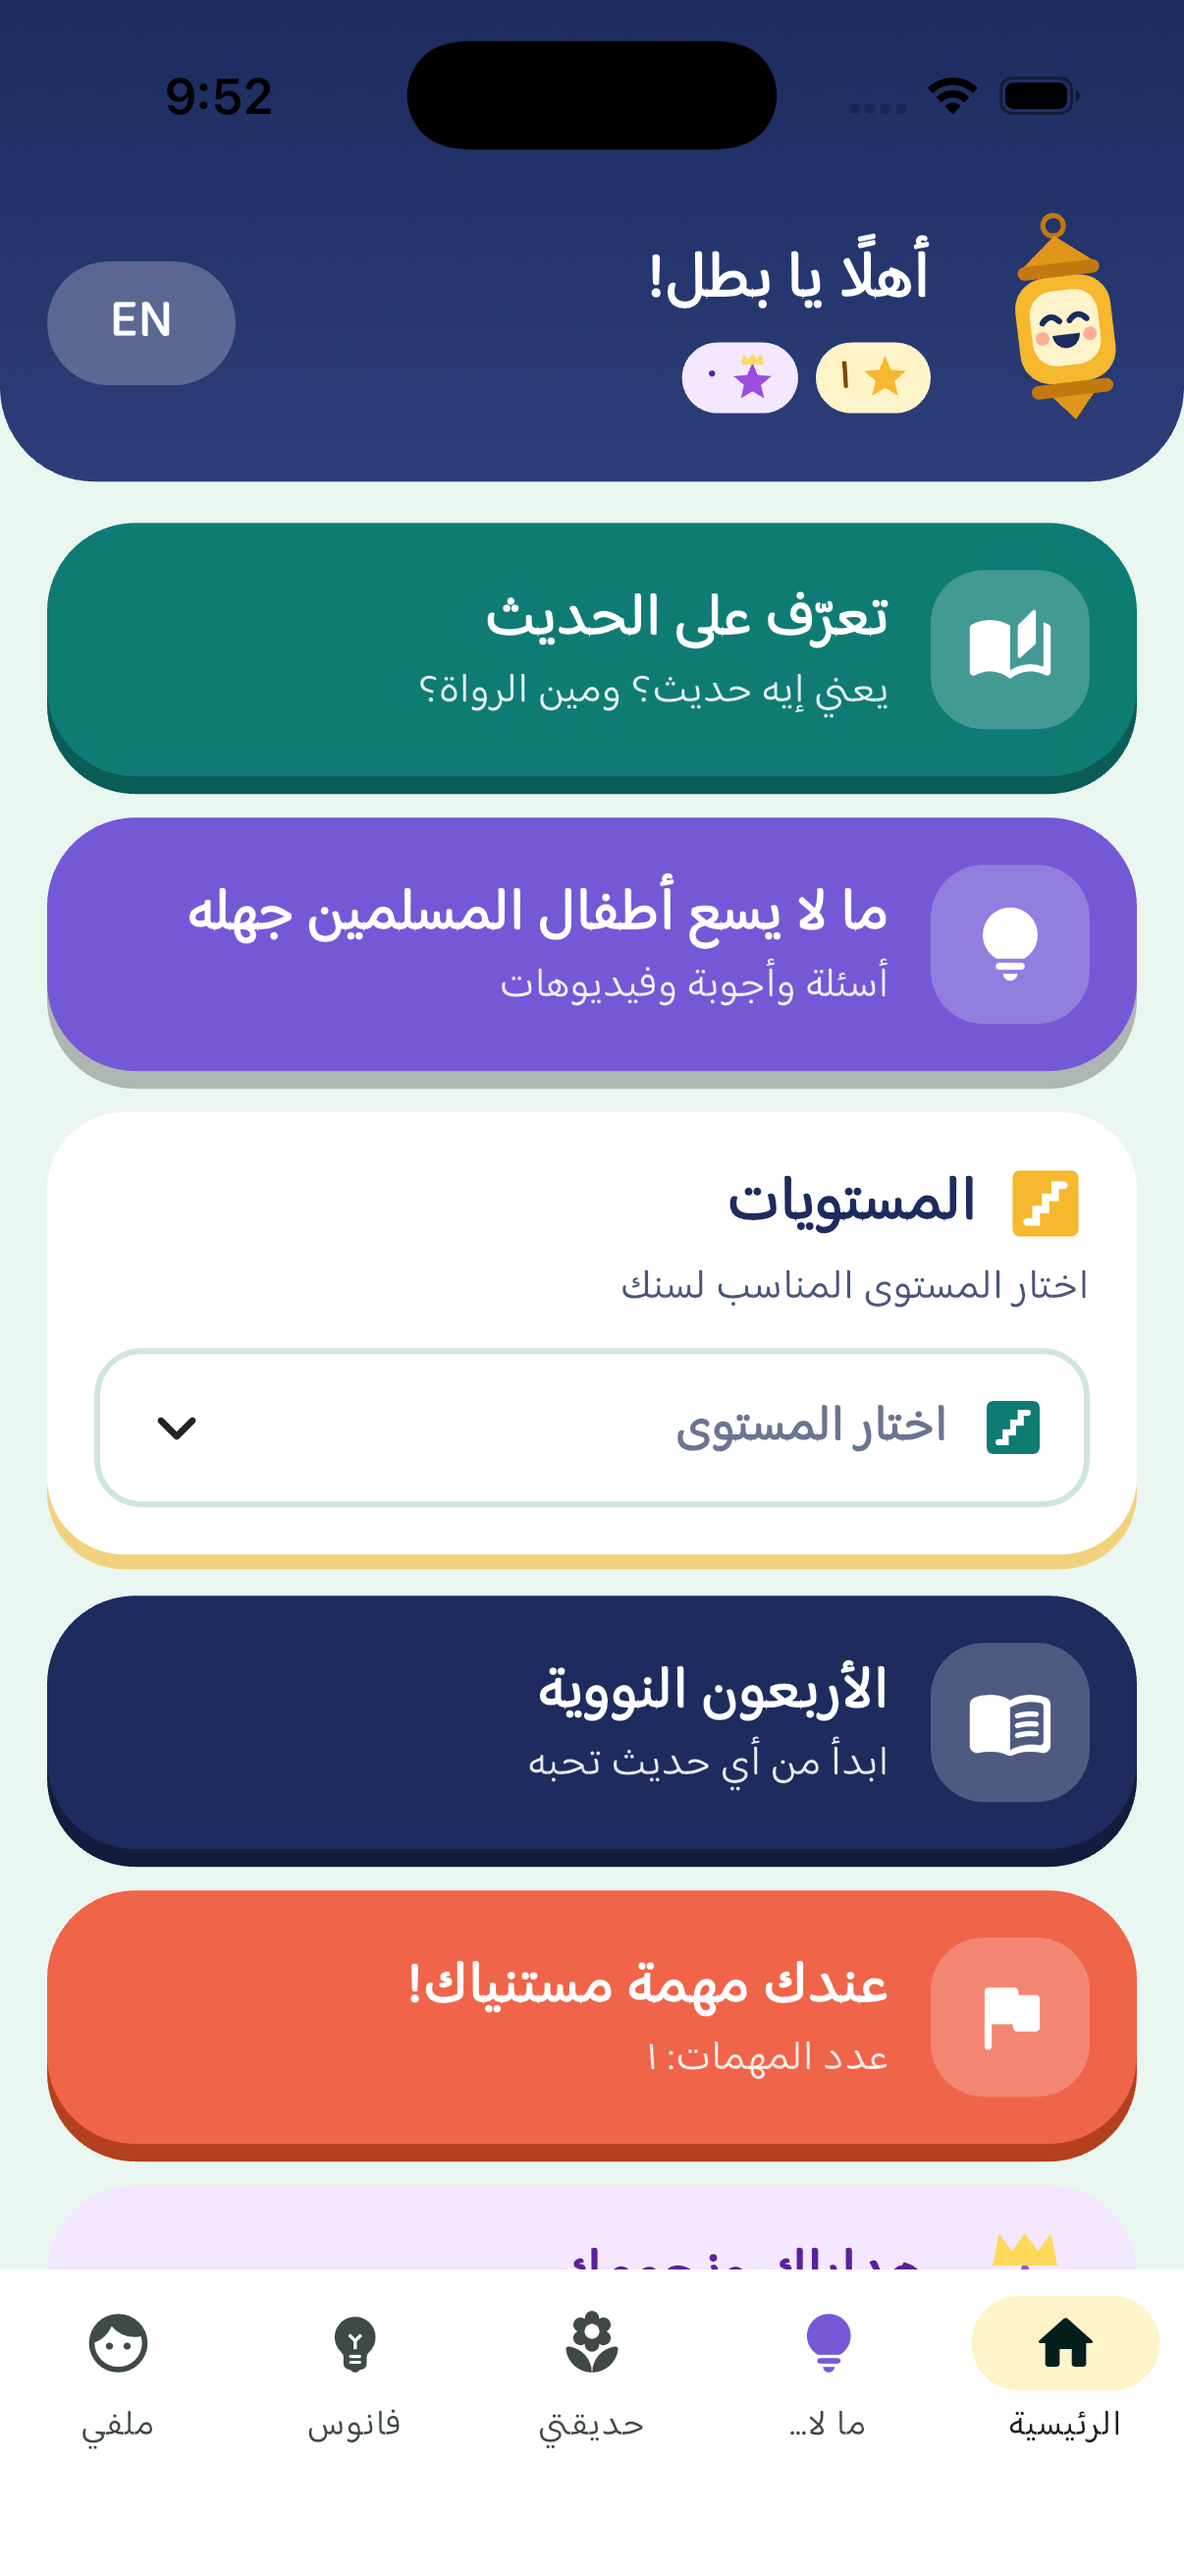
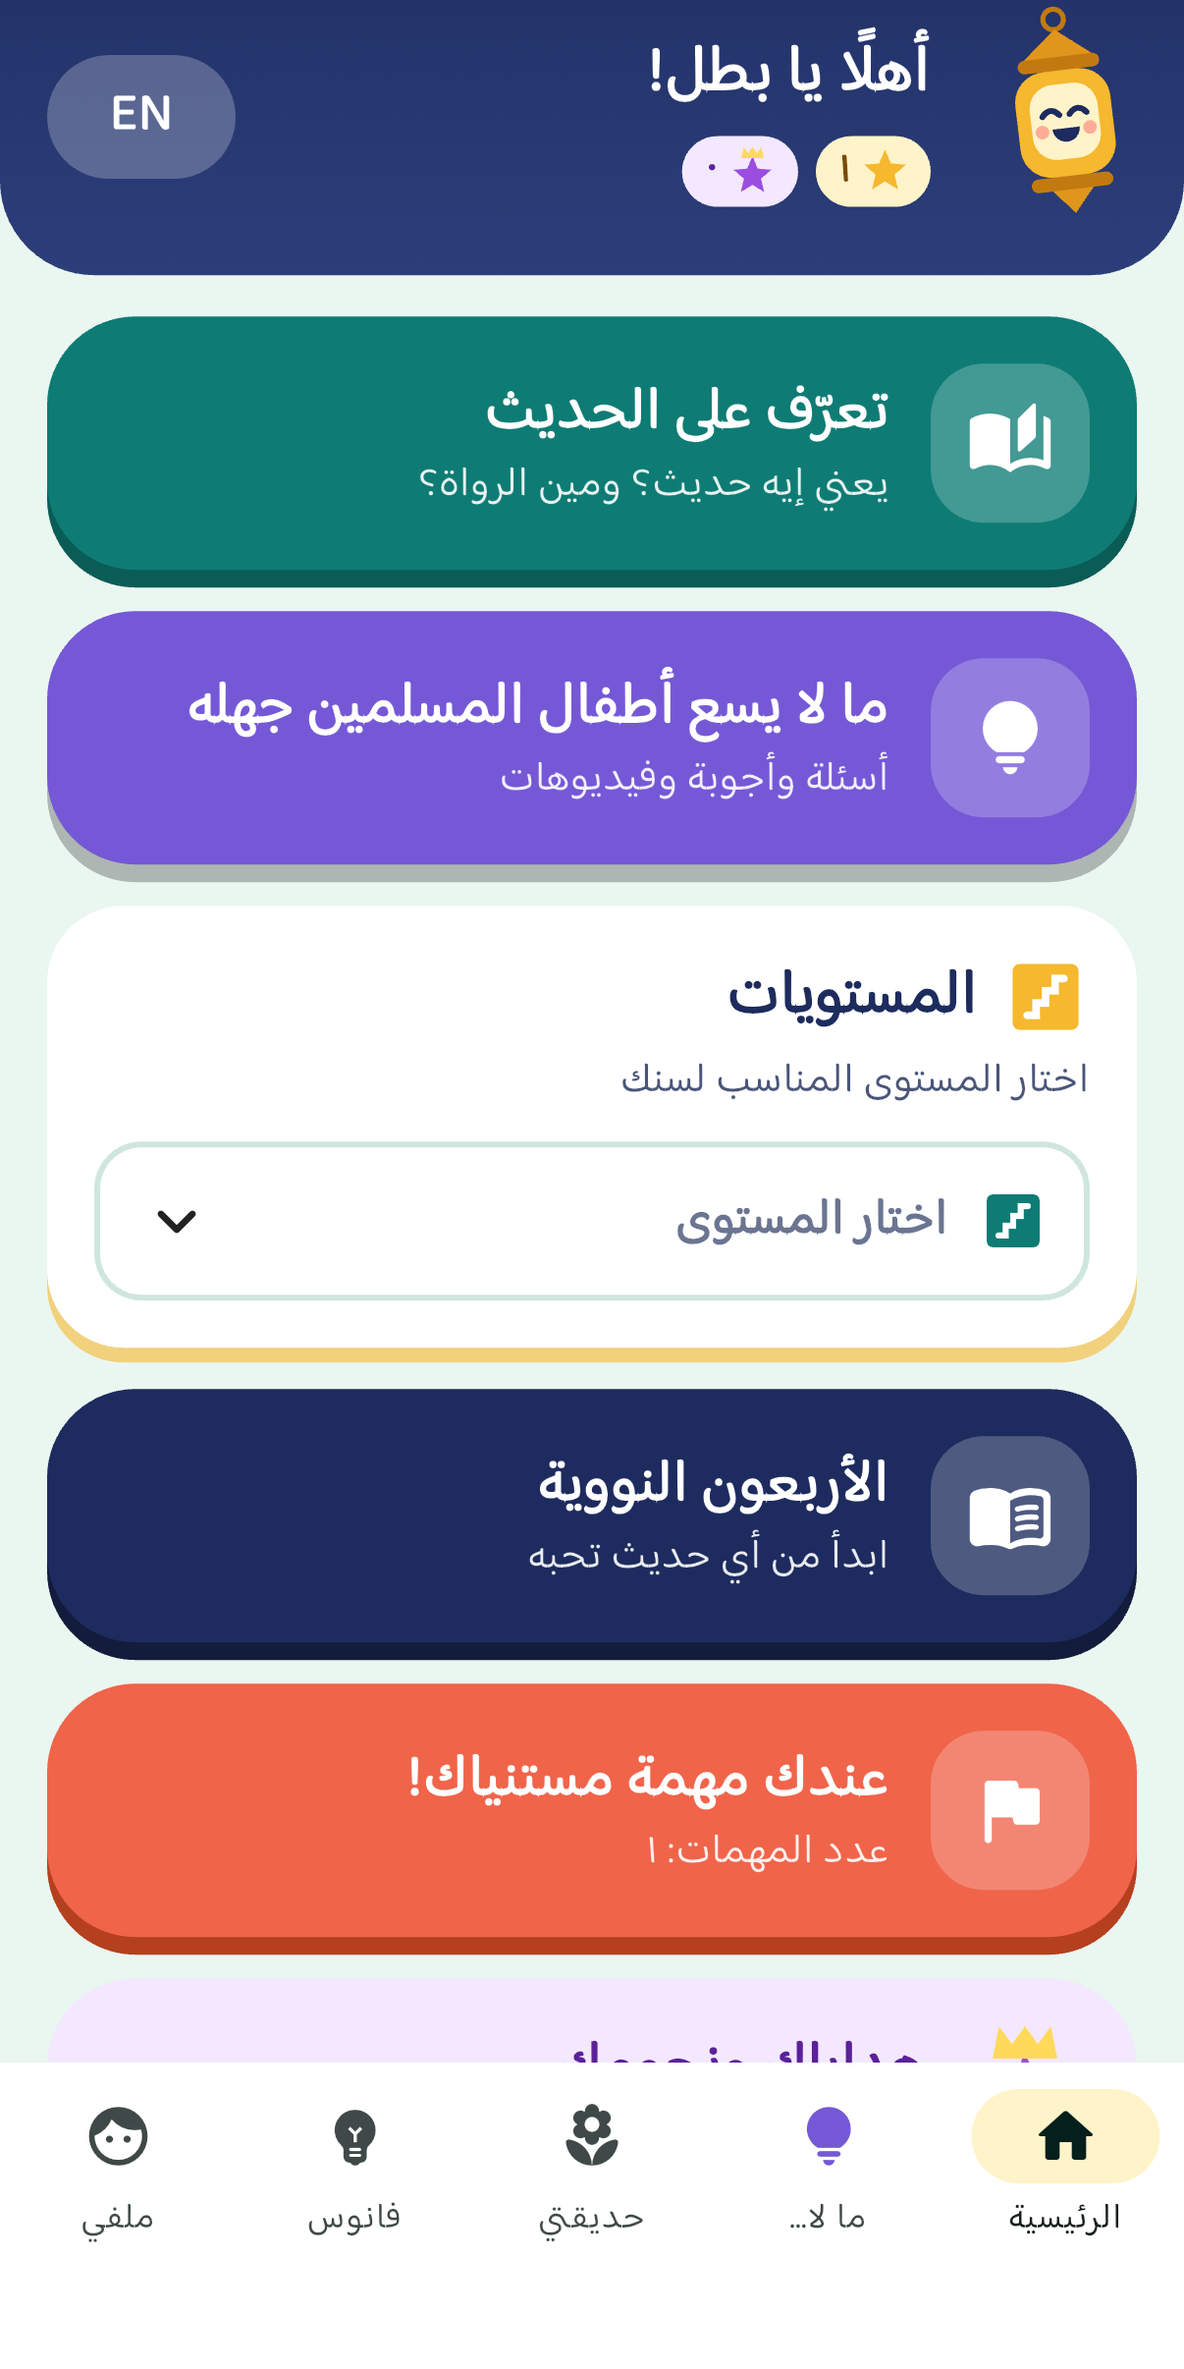
second comet

diff --git a/store/graphics/feature_graphic.html b/store/graphics/feature_graphic.html
@@ -1,0 +1,70 @@
+<!doctype html>
+<html lang="ar" dir="rtl">
+<head>
+<meta charset="utf-8">
+<link rel="preconnect" href="https://fonts.googleapis.com">
+<link href="https://fonts.googleapis.com/css2?family=Baloo+Bhaijaan+2:wght@600;800&display=block" rel="stylesheet">
+<style>
+  html, body { margin:0; width:1024px; height:500px; overflow:hidden; }
+  body { font-family:"Baloo Bhaijaan 2", "SF Arabic Rounded", sans-serif; }
+  svg { display:block; }
+</style>
+</head>
+<body>
+<svg width="1024" height="500" viewBox="0 0 1024 500" xmlns="http://www.w3.org/2000/svg">
+  <defs>
+    <linearGradient id="sky" x1="0" y1="0" x2="0" y2="1">
+      <stop offset="0" stop-color="#1E2A5E"/>
+      <stop offset="1" stop-color="#2B3A78"/>
+    </linearGradient>
+    <radialGradient id="glow" cx="0.5" cy="0.5" r="0.5">
+      <stop offset="0" stop-color="#F5B731" stop-opacity=".35"/>
+      <stop offset="1" stop-color="#F5B731" stop-opacity="0"/>
+    </radialGradient>
+  </defs>
+
+  <rect width="1024" height="500" fill="url(#sky)"/>
+
+  <!-- stars -->
+  <g fill="#FFF1B8">
+    <path d="M90 70 l7 16 17 1 -13 11 4 17 -15 -9 -15 9 4 -17 -13 -11 17 -1z"/>
+    <path d="M560 60 l4 9 10 1 -8 6 3 10 -9 -5 -9 5 3 -10 -8 -6 10 -1z" opacity=".75"/>
+    <path d="M985 300 l5 11 12 1 -9 8 3 12 -11 -6 -11 6 3 -12 -9 -8 12 -1z" opacity=".8"/>
+    <path d="M60 300 l4 9 10 1 -8 6 3 10 -9 -5 -9 5 3 -10 -8 -6 10 -1z" opacity=".6"/>
+    <path d="M470 330 l3 7 8 1 -6 5 2 8 -7 -4 -7 4 2 -8 -6 -5 8 -1z" opacity=".55"/>
+    <path d="M720 70 l3 7 8 1 -6 5 2 8 -7 -4 -7 4 2 -8 -6 -5 8 -1z" opacity=".6"/>
+  </g>
+
+  <!-- moon -->
+  <circle cx="955" cy="72" r="40" fill="#F5B731"/>
+  <circle cx="975" cy="57" r="36" fill="#1F2B60"/>
+
+  <!-- lantern, same drawing as the app icon -->
+  <circle cx="210" cy="235" r="170" fill="url(#glow)"/>
+  <g transform="translate(210 235) scale(.52) translate(-512 -480)">
+    <circle cx="512" cy="190" r="32" fill="none" stroke="#C47A12" stroke-width="14"/>
+    <path d="M512 222 L622 308 L402 308 Z" fill="#E09A1E"/>
+    <rect x="387" y="304" width="250" height="44" rx="22" fill="#C47A12"/>
+    <rect x="367" y="346" width="290" height="324" rx="70" fill="#F5B731"/>
+    <rect x="367" y="346" width="50" height="324" rx="25" fill="#FFF3CC" opacity=".3"/>
+    <rect x="408" y="388" width="208" height="230" rx="56" fill="#FFF3CC"/>
+    <path d="M440 488 q22 -32 44 0 M524 488 q22 -32 44 0" fill="none" stroke="#1F2B60" stroke-width="16" stroke-linecap="round"/>
+    <circle cx="440" cy="528" r="20" fill="#F7A99A"/>
+    <circle cx="584" cy="528" r="20" fill="#F7A99A"/>
+    <path d="M472 524 h80 q-4 40 -40 40 q-36 0 -40 -40z" fill="#1F2B60"/>
+    <path d="M488 544 q24 16 48 0" fill="none" stroke="#F06A50" stroke-width="10" stroke-linecap="round"/>
+    <rect x="387" y="668" width="250" height="44" rx="22" fill="#C47A12"/>
+    <path d="M450 710 L574 710 L512 785 Z" fill="#E09A1E"/>
+  </g>
+
+  <!-- river waves -->
+  <path d="M0 418 C 220 380, 420 392, 560 414 S 860 440, 1024 392 L1024 500 L0 500 Z" fill="#0E7C74"/>
+  <path d="M0 452 C 240 426, 470 434, 620 450 S 880 470, 1024 438 L1024 500 L0 500 Z" fill="#3CC6A8"/>
+
+  <!-- text -->
+  <text x="930" y="215" text-anchor="start" direction="rtl" font-size="92" font-weight="800" fill="#FFFFFF">أحاديث الصغار</text>
+  <text x="930" y="285" text-anchor="start" direction="rtl" font-size="38" font-weight="600" fill="#FFE7A3">احفظ الأحاديث بالحكايات والألعاب ⭐</text>
+  <text x="930" y="340" text-anchor="start" direction="rtl" font-size="30" font-weight="600" fill="#C9D3F5" opacity=".9">Hadith Kids</text>
+</svg>
+</body>
+</html>

diff --git a/store/data_deletion_notion.md b/store/data_deletion_notion.md
@@ -1,0 +1,69 @@
+**Ahadith Alsighar (Hadith Kids) · أحاديث الصغار** · العربية بالأسفل
+
+## English
+
+This page explains how to delete data from the **Ahadith Alsighar (Hadith Kids)** app, published on Google Play by the developer of this app.
+
+The app has no user accounts: no email, phone number or password. Most data stays on the device. The only data on our servers is a leaderboard entry (only if a parent agreed to it) and a random anonymous ID.
+
+### Option 1: delete everything from inside the app
+
+1. Open the app and go to **Me** (ملفي).
+2. Tap **Delete all my data**.
+3. Pass the parent gate.
+
+This immediately deletes:
+- from the device: progress, stars, missions, garden, profile, nickname and photo;
+- from our servers: the leaderboard entry (nickname, cartoon character, stars, governorate and area).
+
+To remove only the leaderboard entry, turn off **Show me on the leaderboard** in the same screen.
+
+### Option 2: ask us by email
+
+Email **elsayedali3632@gmail.com** with the subject **"Delete my data – Hadith Kids"**. Include the nickname and governorate shown on the leaderboard so we can find the entry, since the app has no accounts. We delete it within **30 days** and reply to confirm.
+
+### What is deleted and what is kept
+
+| Data | Where | What happens |
+|---|---|---|
+| Progress, stars, profile, photo | Device only | Deleted at once by "Delete all my data", or by uninstalling the app |
+| Leaderboard entry (nickname, character, stars, governorate, area) | Our servers | Deleted at once from the app, or within 30 days of an email request |
+| Anonymous ID (random, not linked to any personal data) | Our servers (Firebase) | Kept so the app keeps working; deleted within 30 days on email request |
+| Notification token | Google Firebase | Stops working when the app is uninstalled; Firebase removes inactive tokens automatically |
+
+We keep no backups of leaderboard entries after deletion.
+
+---
+
+## العربية
+
+توضّح هذه الصفحة طريقة حذف البيانات من تطبيق **أحاديث الصغار (Hadith Kids)** المنشور على Google Play.
+
+التطبيق ليس فيه حسابات: لا بريد ولا رقم هاتف ولا كلمة مرور. معظم البيانات تبقى على الجهاز. البيانات الوحيدة على خوادمنا هي بيانات لوحة الشرف (فقط إذا وافق ولي الأمر) ومعرّف مجهول عشوائي.
+
+### الطريقة الأولى: الحذف من داخل التطبيق
+
+1. افتح التطبيق وادخل على **ملفي**.
+2. اضغط **امسح كل بياناتي**.
+3. أكمل «بوابة الكبار».
+
+يُحذف فورًا:
+- من الجهاز: التقدّم والنجوم والمهمات والحديقة والملف والاسم المستعار والصورة؛
+- من خوادمنا: بيانات لوحة الشرف (الاسم المستعار والشخصية والنجوم والمحافظة والحي).
+
+لحذف بيانات لوحة الشرف فقط، أوقف خيار **اظهر في لوحة الشرف** من نفس الشاشة.
+
+### الطريقة الثانية: طلب بالبريد
+
+راسلنا على **elsayedali3632@gmail.com** بعنوان **«حذف بياناتي – أحاديث الصغار»**، واذكر الاسم المستعار والمحافظة الظاهرين في لوحة الشرف لنعرف البيانات المطلوبة، لأن التطبيق ليس فيه حسابات. نحذفها خلال **٣٠ يومًا** ونرد عليك للتأكيد.
+
+### ما يُحذف وما يُحتفظ به
+
+| البيانات | مكانها | ماذا يحدث |
+|---|---|---|
+| التقدّم والنجوم والملف والصورة | على الجهاز فقط | تُحذف فورًا بزر «امسح كل بياناتي» أو بحذف التطبيق |
+| بيانات لوحة الشرف (الاسم المستعار، الشخصية، النجوم، المحافظة، الحي) | خوادمنا | تُحذف فورًا من التطبيق، أو خلال ٣٠ يومًا من طلب البريد |
+| المعرّف المجهول (عشوائي ولا يرتبط بأي بيانات شخصية) | خوادمنا (Firebase) | يُحتفظ به ليعمل التطبيق، ويُحذف خلال ٣٠ يومًا عند الطلب بالبريد |
+| رمز الإشعارات | Google Firebase | يتوقف عند حذف التطبيق، وتحذف Firebase الرموز غير المستخدمة تلقائيًا |
+
+لا نحتفظ بأي نسخ احتياطية من بيانات لوحة الشرف بعد حذفها.

diff --git a/store/google_play_listing.md b/store/google_play_listing.md
@@ -104,7 +104,7 @@ Download Hadith Kids and help your child grow up with the Sunnah.
 
 **Target audience:** Ages 5 and under, 6–8, 9–12 (choose the ones you want). The app is **not** designed to appeal to older audiences only, so it joins the Families program.
 
-**Content rating questionnaire:** Category *Reference, News, or Educational*. Answer **No** to violence, sexual content, profanity, drugs, gambling, user-to-user communication and sharing of location. The leaderboard shows only a nickname, a preset cartoon character and a governorate chosen from a list; children can't send messages to each other.
+**Content rating questionnaire:** Category *All Other App Types*. Answer **No** to everything (violence, fear, sexuality, language, controlled substances, gambling, user interaction, location sharing, digital purchases, web browser) except **Yes** to "primarily a news or educational product". The leaderboard shows only a nickname, a preset cartoon character and a governorate chosen from a list; children can't send messages to each other.
 
 **News app:** No. **Government app:** No. **Financial features:** None. **Health:** No.
 
